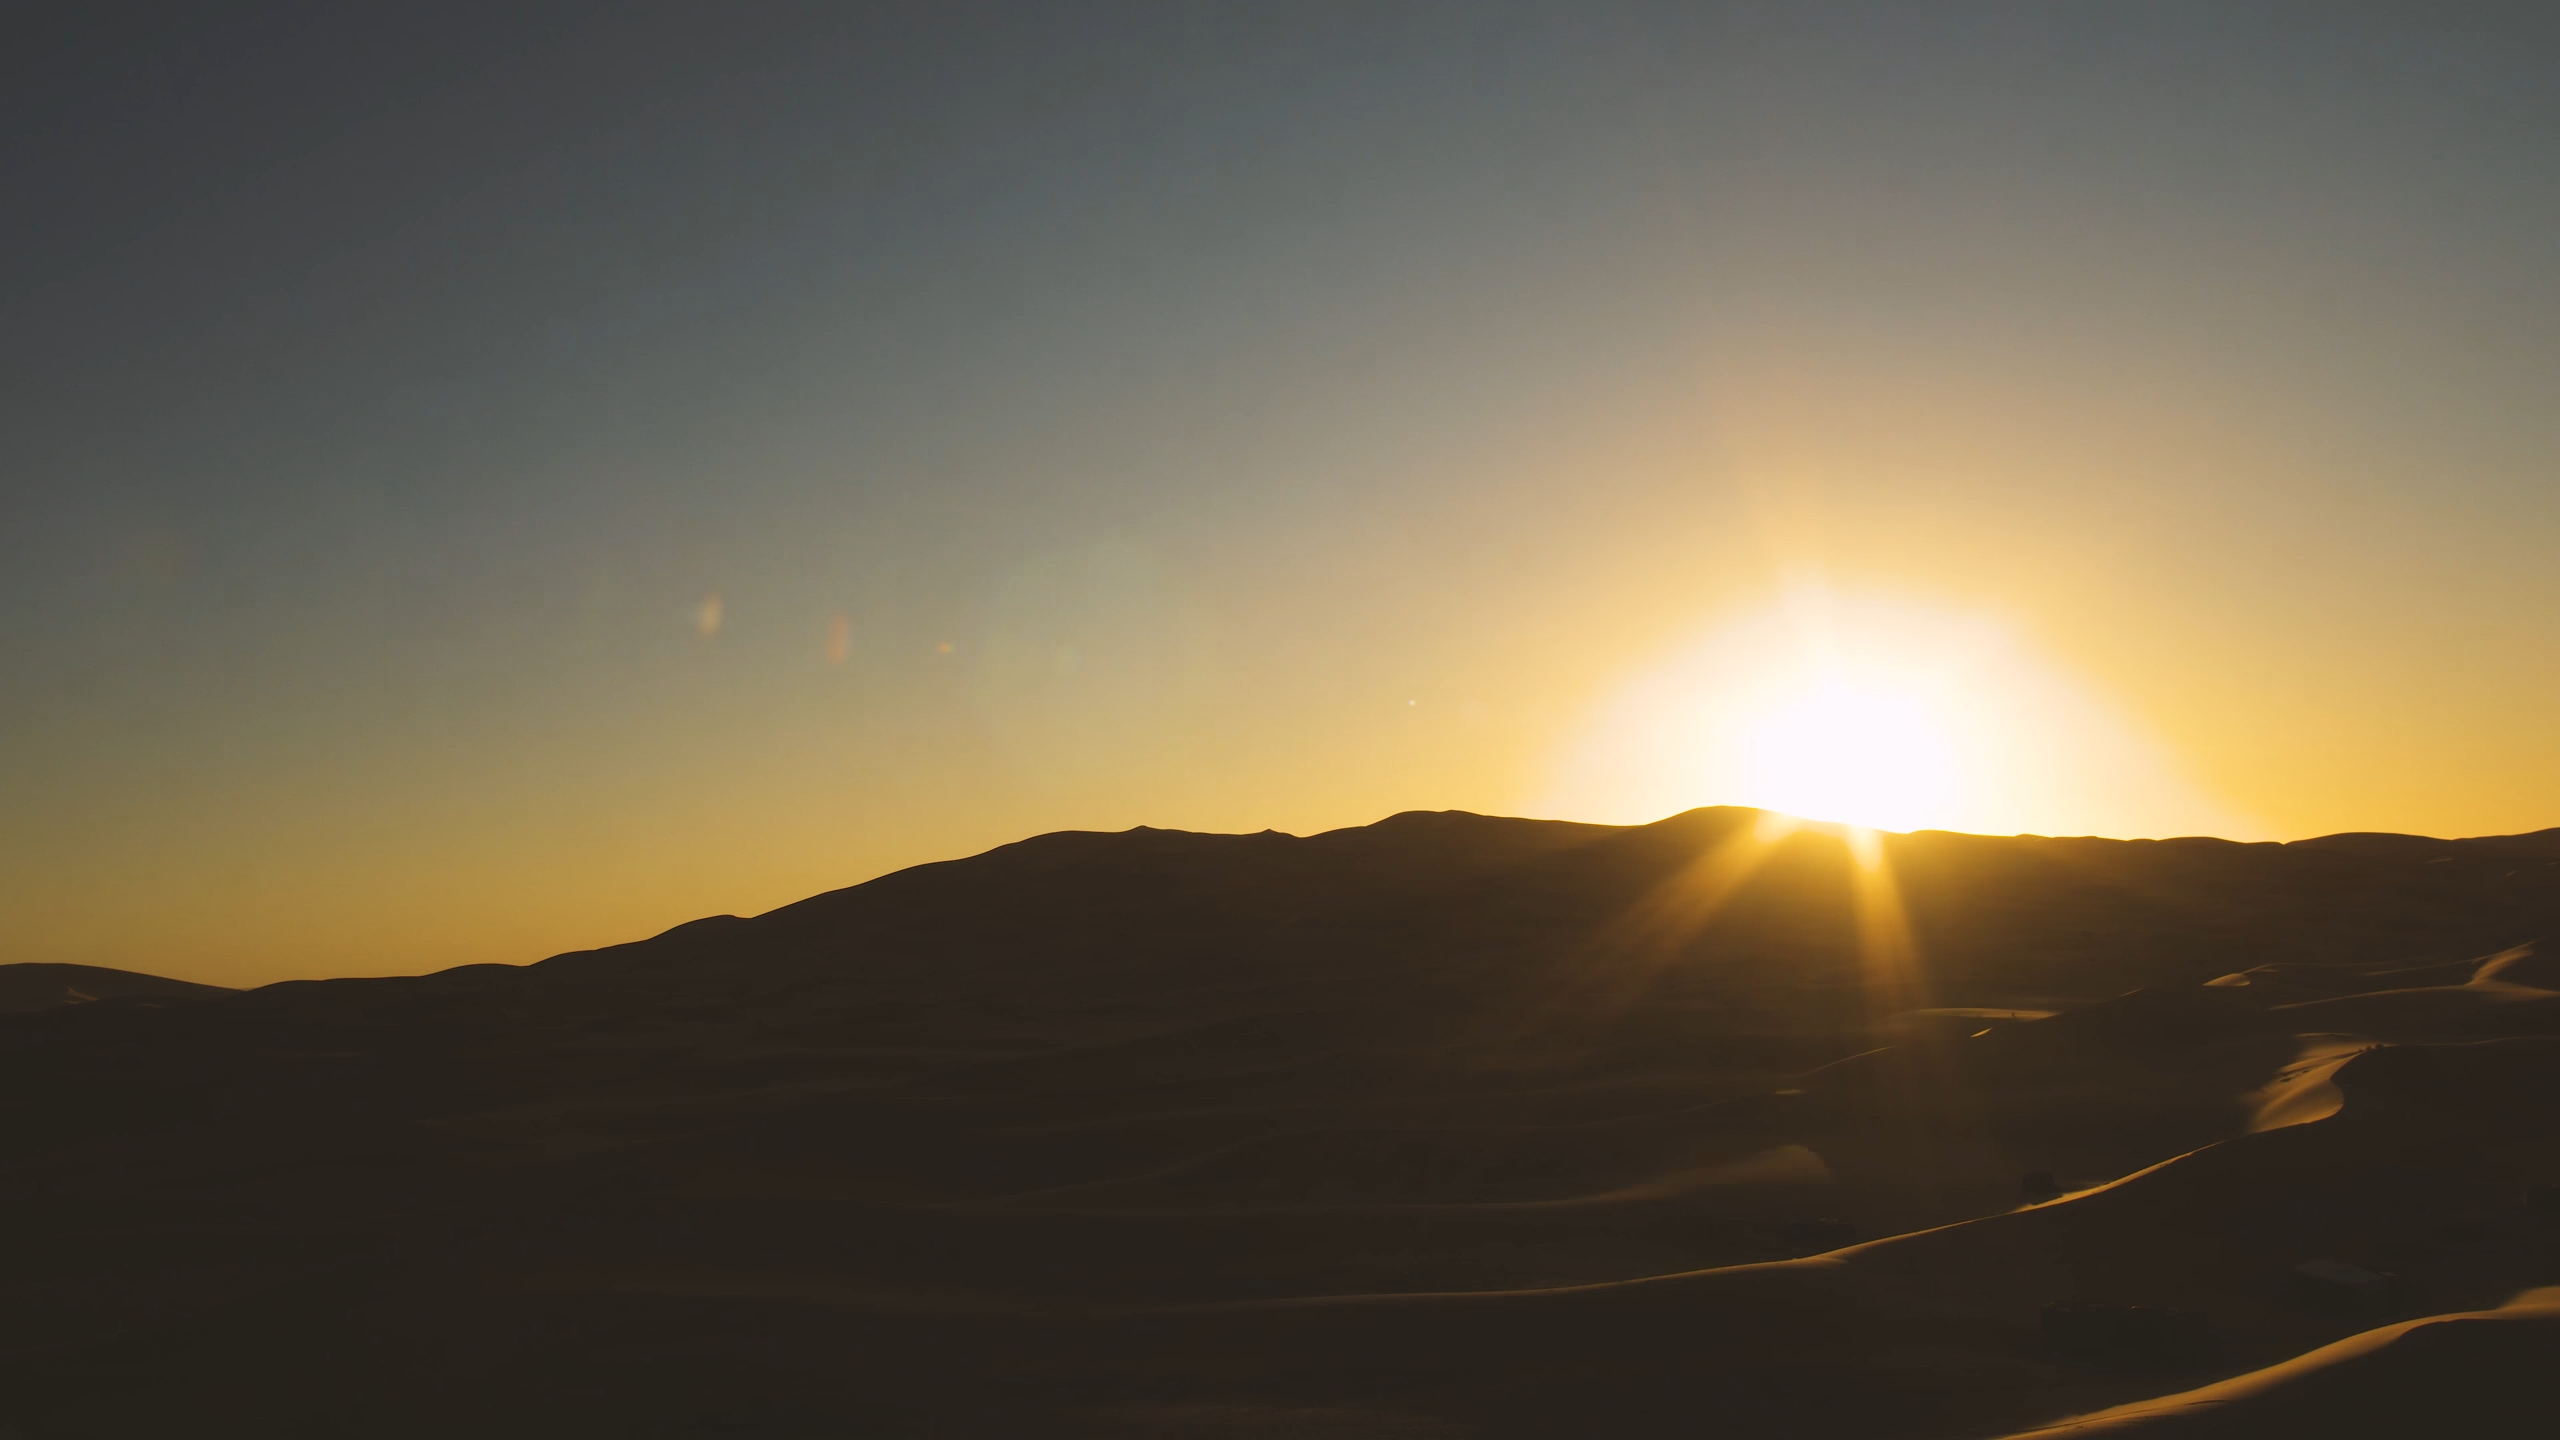
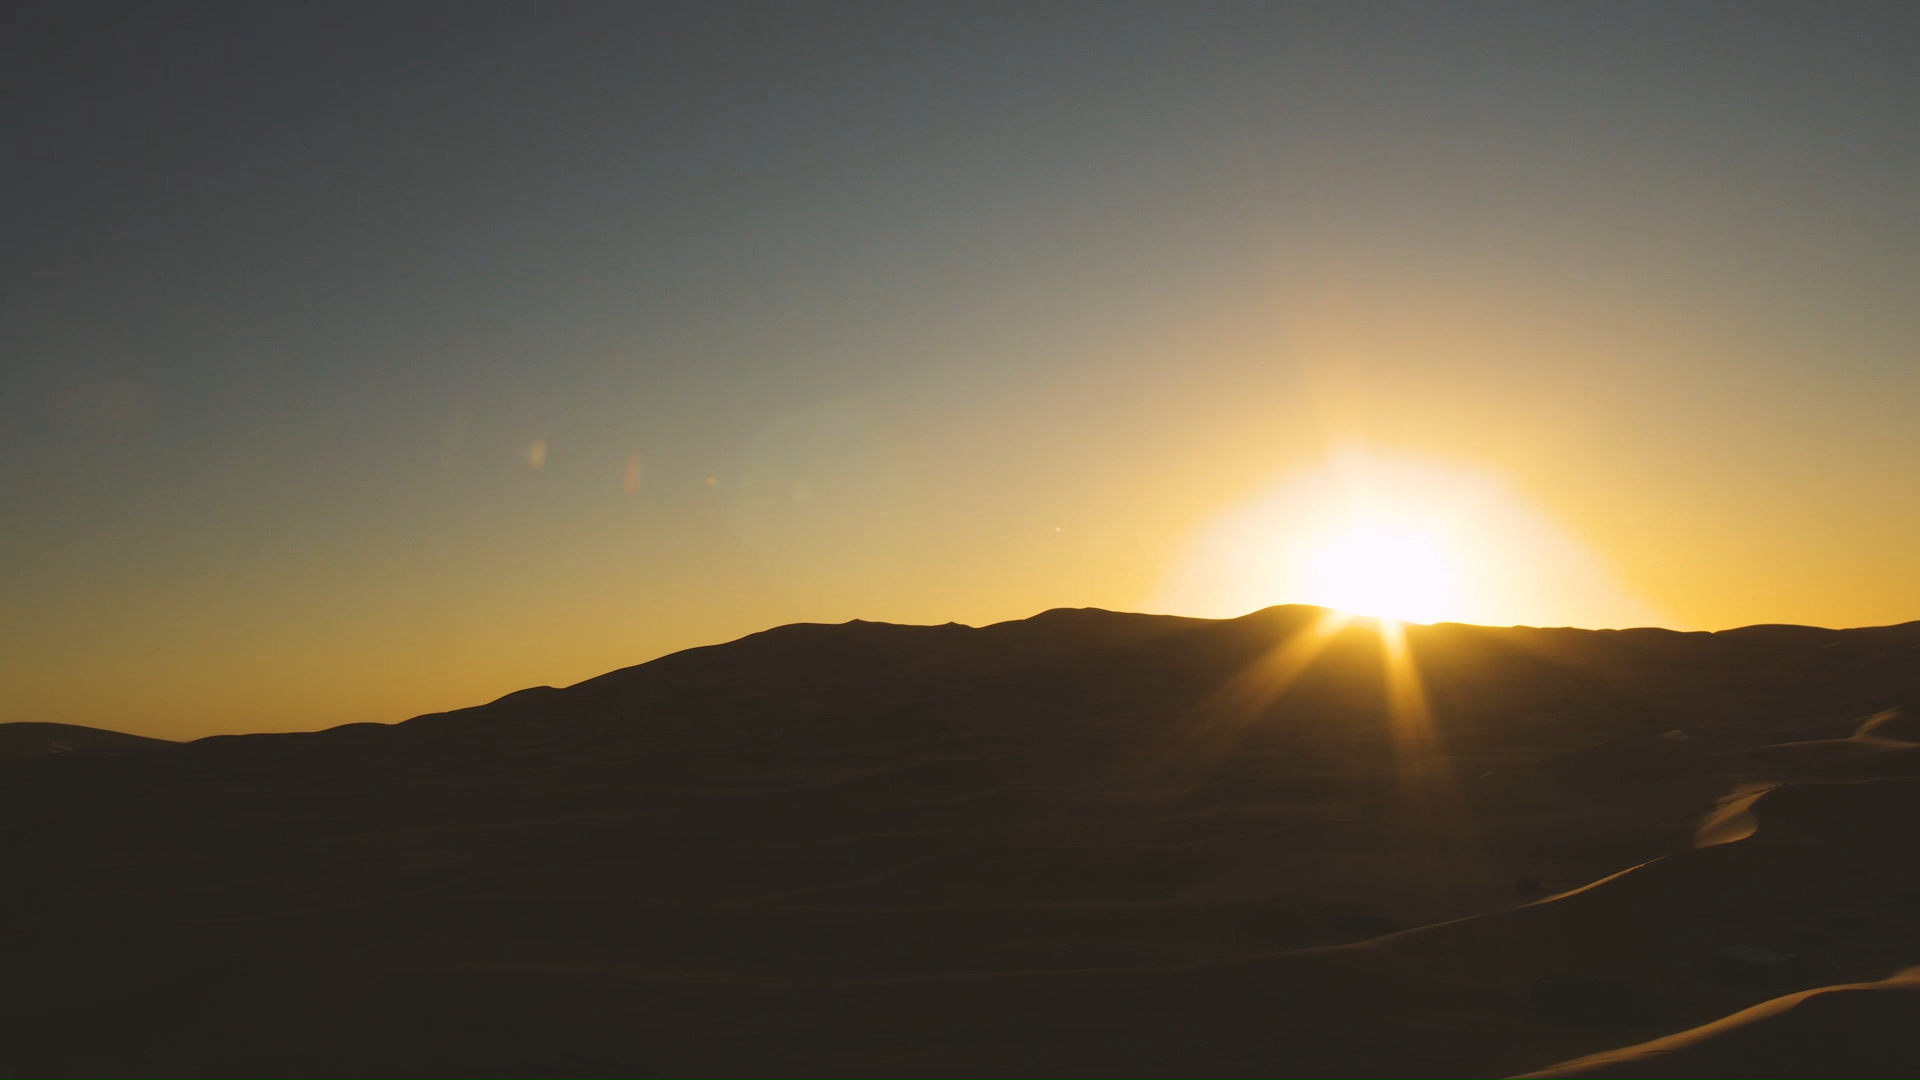
update hero section video

diff --git a/components/hero.tsx b/components/hero.tsx
@@ -19,7 +19,8 @@ import { cn } from "@/lib/utils"
 import { Check, ChevronsUpDown, Compass, MapPin, Search } from "lucide-react"
 import Image from "next/image"
 import { useRouter } from "next/navigation"
-import { useEffect, useState } from "react"
+import { useEffect, useRef, useState } from "react"
+import Player from "@vimeo/player"
 
 const SERVICES = [
   { id: "tours", label: { en: "Tours", fr: "Circuits", es: "Circuitos" }, path: "/tours" },
@@ -53,15 +54,37 @@ export default function Hero() {
     router.push(`${activeService.path}?city=${selectedCity}`)
   }
 
-  const [showVideo, setShowVideo] = useState(false)
   const [videoLoaded, setVideoLoaded] = useState(false)
+  const [mounted, setMounted] = useState(false)
+  const playerRef = useRef<Player | null>(null)
+  const iframeRef = useRef<HTMLIFrameElement>(null)
 
   useEffect(() => {
-    const timer = setTimeout(() => {
-      setShowVideo(true)
-    }, 2500)
-    return () => clearTimeout(timer)
+    setMounted(true)
   }, [])
+
+  useEffect(() => {
+    if (mounted && iframeRef.current) {
+      const player = new Player(iframeRef.current)
+      playerRef.current = player
+
+      player.on("playing", () => {
+        setVideoLoaded(true)
+      })
+
+      // Ensure autoplay and mute are set
+      player.setMuted(true)
+      player.play().catch(error => {
+        console.error("Autoplay prevented:", error)
+      })
+    }
+
+    return () => {
+      if (playerRef.current) {
+        playerRef.current.destroy()
+      }
+    }
+  }, [mounted])
 
   return (
     <section className="relative w-full overflow-hidden" style={{ height: "100svh" }}>
@@ -79,23 +102,23 @@ export default function Hero() {
         <div className="absolute inset-0 bg-black/10" />
       </div>
 
-      {/* YouTube Video Background */}
-      <div className={`absolute inset-0 w-full h-full transition-opacity duration-1000 ${videoLoaded ? 'opacity-100' : 'opacity-0'}`}>
-        {showVideo && (
+      {/* Vimeo Video Background */}
+      {mounted && (
+        <div className={`absolute inset-0 w-full h-full transition-opacity duration-1000 ${videoLoaded ? 'opacity-100' : 'opacity-0'}`}>
           <iframe
-            className="absolute top-1/2 left-1/2 w-[400vw] h-[400vh] md:w-[300vw] md:h-[300vh] lg:w-[150vw] lg:h-[150vh]"
+            ref={iframeRef}
+            src="https://player.vimeo.com/video/1148108674?badge=0&autopause=0&player_id=0&app_id=58479&autoplay=1&muted=1&loop=1&background=1"
+            className="absolute top-1/2 left-1/2 w-[177.78vh] h-[56.25vw] min-w-full min-h-full"
             style={{
               transform: "translate(-50%, -50%)",
               pointerEvents: "none"
             }}
-            src="https://www.youtube-nocookie.com/embed/1XKaUV4dJFU?autoplay=1&mute=1&loop=1&playlist=1XKaUV4dJFU&controls=0&showinfo=0&rel=0&iv_load_policy=3&modestbranding=1&start=13&end=150"
-            title="Background video"
+            title="herobackground"
             frameBorder="0"
-            allow="autoplay; encrypted-media"
-            onLoad={() => setVideoLoaded(true)}
+            allow="autoplay; fullscreen; picture-in-picture"
           />
-        )}
-      </div>
+        </div>
+      )}
 
       {/* Dark Overlay */}
       <div className="absolute inset-0 bg-black/30" />
